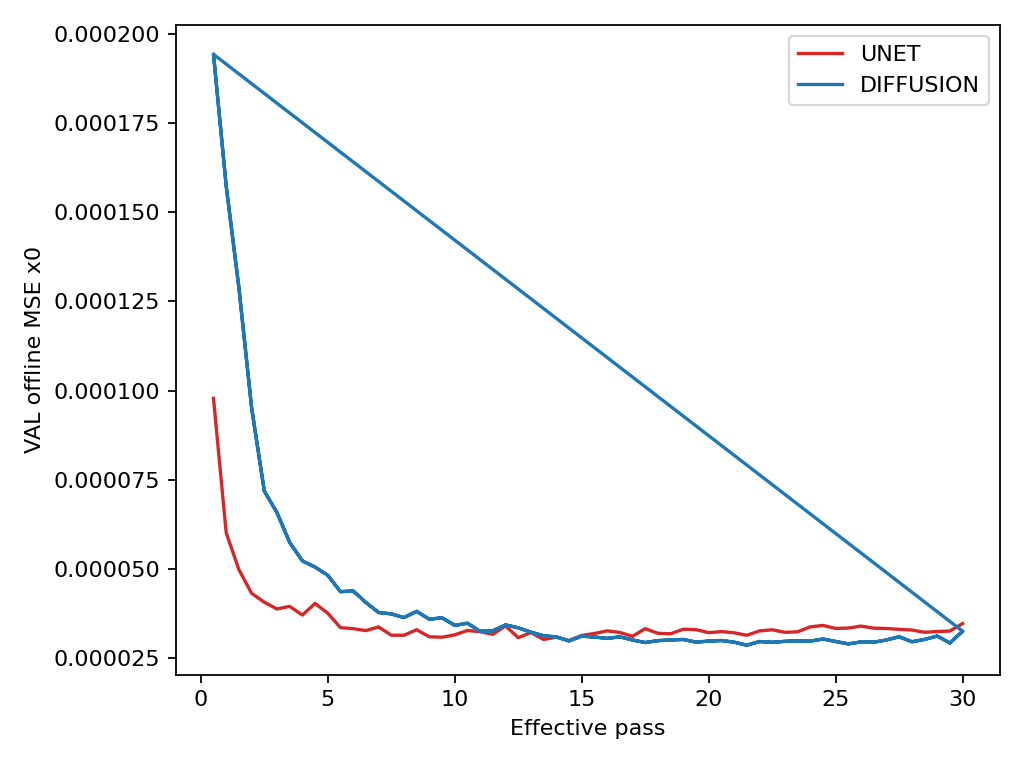
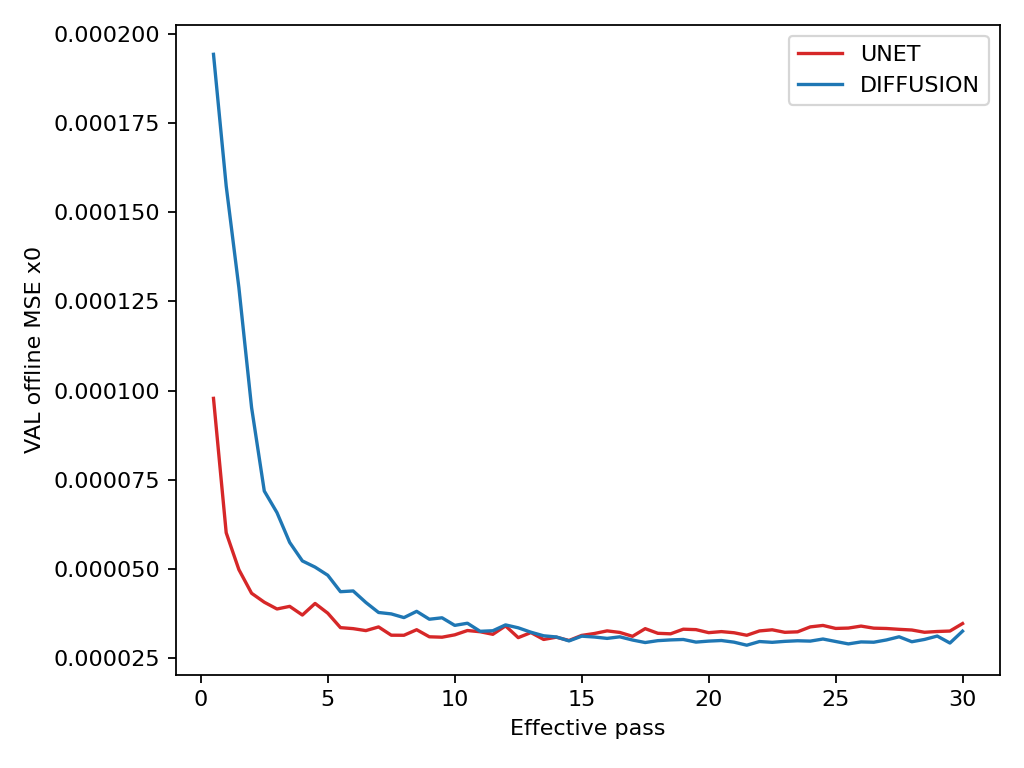
fix: make S8-R4 finalization reproducible

diff --git a/scripts/finalize_s8r4.py b/scripts/finalize_s8r4.py
@@ -22,7 +22,7 @@ def write_csv(path, rows):
     with path.open("w",encoding="utf-8",newline="") as f: w=csv.DictWriter(f,fieldnames=fields);w.writeheader();w.writerows(rows)
 
 def main():
-    curve=list(csv.DictReader((OUT/"training_curve.csv").open(encoding="utf-8",newline="")))
+    curve=[r for r in csv.DictReader((OUT/"training_curve.csv").open(encoding="utf-8",newline="")) if r.get("model") != "DIFFUSION"]
     mlp_curve=list(csv.DictReader((ROOT/"artifacts/s8r3/training_curve.csv").open(encoding="utf-8",newline="")))
     curve += [r for r in mlp_curve if r["model"]=="DIFFUSION"]
     write_csv(OUT/"training_curve.csv", curve)
@@ -32,10 +32,11 @@ def main():
     ur=nearest("UNET")
     selection=json.loads((OUT/"checkpoint_selection.json").read_text(encoding="utf-8"))
     if not selection.get("frozen_before_closed_loop") or selection.get("selected_by_closed_loop_success"): raise RuntimeError("BLOCKED_S8R4_SELECTION_FREEZE")
-    metrics=[]; family=[]; unet_by_pass={"0":{"status":"INITIAL_UNTRAINED","count":0,"success_rate":None}}
+    metrics=[]; family=[]; val_wall_time_s=0.0; unet_by_pass={"0":{"status":"INITIAL_UNTRAINED","count":0,"success_rate":None}}
     for p in CHECKPOINT_PASSES:
         rows=read_rows(OUT/f"unet_pass_{p:02d}_val_rollouts.csv")
         if len(rows)!=1000: raise RuntimeError(f"BLOCKED_S8R4_VAL_COUNT:{p}:{len(rows)}")
+        val_wall_time_s += sum(float(r.get("wall_time_s", 0.0)) for r in rows)
         result=summarize_rows(rows); result.update(model="UNET",pass_=p)
         result["pass"]=p; result.pop("pass_",None); unet_by_pass[str(p)]=result; metrics.append(result)
         for fam,v in result["by_family"].items(): family.append({"model":"UNET","pass":p,"family":fam,**v})
@@ -55,7 +56,9 @@ def main():
     label="PASS_S8R4_UNET_PROMISING" if promising else "PASS_S8R4_UNET_NO_CLEAR_ADVANTAGE"
     fam_focus=[r for r in family if r["pass"] in (1,us,30) and r["model"] in ("UNET","DIFFUSION")]
     bcvals={p:float(ref["BC"][str(p)]["success_rate"]) for p in CHECKPOINT_PASSES}
-    summary={"task":TASK,"final_label":label,"start_head":START_HEAD,"dataset":{"train_sha256":TRAIN_SHA,"val_sha256":VAL_SHA,"test_accessed":False},"normalization_sha256":NORMALIZATION_SHA,"training_seed":TRAINING_SEED,"effective_passes":MAX_PASSES,"updates_per_pass":9329,"mlp_parameter_count":621360,"bc_parameter_count":592688,"unet_parameter_count":json.loads((OUT/"architecture_summary.json").read_text())["parameter_count"],"unet_config_sha256":sha256_file(OUT/"unet_config.json"),"unet":uvals,"mlp_reference":mvals,"bc_reference":bcvals,"mlp_offline_selected_pass":ms,"unet_offline_selected_pass":us,"offline_selected_delta":delta_selected,"late_mean_unet":late_u,"late_mean_mlp":late_m,"late_mean_delta":late_delta,"mlp_peak_to_final_drop":drop_m,"unet_peak_to_final_drop":drop_u,"family_results":fam_focus,"test_accessed":False,"test_run_count":0,"ppo_run_count":0,"train_wall_time_s":json.loads((OUT/"summary.json").read_text())["unet"]["training_wall_time_s"],"val_wall_time_s":float(sum(float(r.get("wall_time_s",0)) for r in metrics if r["model"]=="UNET")),"formal_progress":"95%","unique_next_task":"NONE — WAIT_FOR_CONTROLLER_REVIEW","architecture_capacity_audit":True,"what_was_proven":"Only whether the frozen single-seed temporal U-Net backbone changes the current implementation under the frozen 10K contract.","what_was_not_proven":"Three-seed superiority, parameter-matched superiority, or Diffusion superiority over BC."}
+    prior_summary=json.loads((OUT/"summary.json").read_text())
+    train_wall_time_s=float(prior_summary.get("train_wall_time_s", prior_summary.get("unet", {}).get("training_wall_time_s", 0.0)))
+    summary={"task":TASK,"final_label":label,"start_head":START_HEAD,"dataset":{"train_sha256":TRAIN_SHA,"val_sha256":VAL_SHA,"test_accessed":False},"normalization_sha256":NORMALIZATION_SHA,"training_seed":TRAINING_SEED,"effective_passes":MAX_PASSES,"updates_per_pass":9329,"mlp_parameter_count":621360,"bc_parameter_count":592688,"unet_parameter_count":json.loads((OUT/"architecture_summary.json").read_text())["parameter_count"],"unet_config_sha256":sha256_file(OUT/"unet_config.json"),"unet":uvals,"mlp_reference":mvals,"bc_reference":bcvals,"mlp_offline_selected_pass":ms,"unet_offline_selected_pass":us,"offline_selected_delta":delta_selected,"late_mean_unet":late_u,"late_mean_mlp":late_m,"late_mean_delta":late_delta,"mlp_peak_to_final_drop":drop_m,"unet_peak_to_final_drop":drop_u,"family_results":fam_focus,"test_accessed":False,"test_run_count":0,"ppo_run_count":0,"train_wall_time_s":train_wall_time_s,"val_wall_time_s":val_wall_time_s,"formal_progress":"95%","unique_next_task":"NONE — WAIT_FOR_CONTROLLER_REVIEW","architecture_capacity_audit":True,"what_was_proven":"Only whether the frozen single-seed temporal U-Net backbone changes the current implementation under the frozen 10K contract.","what_was_not_proven":"Three-seed superiority, parameter-matched superiority, or Diffusion superiority over BC."}
     write_json(OUT/"summary.json",summary)
     print(json.dumps({"final_label":label,"unet":uvals,"selected_delta":delta_selected,"late_delta":late_delta,"drop_u":drop_u,"drop_m":drop_m},ensure_ascii=False,indent=2))
 
